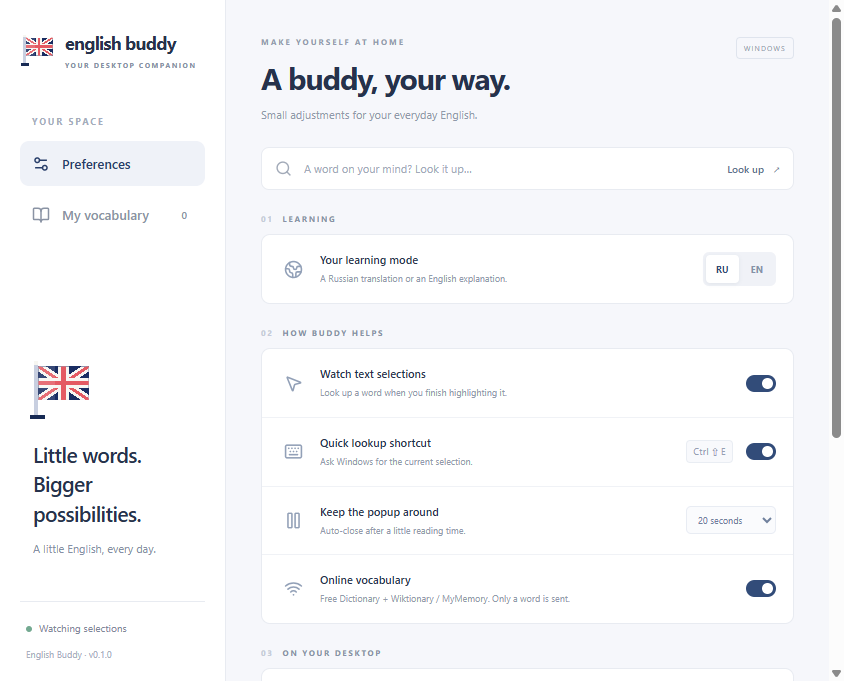
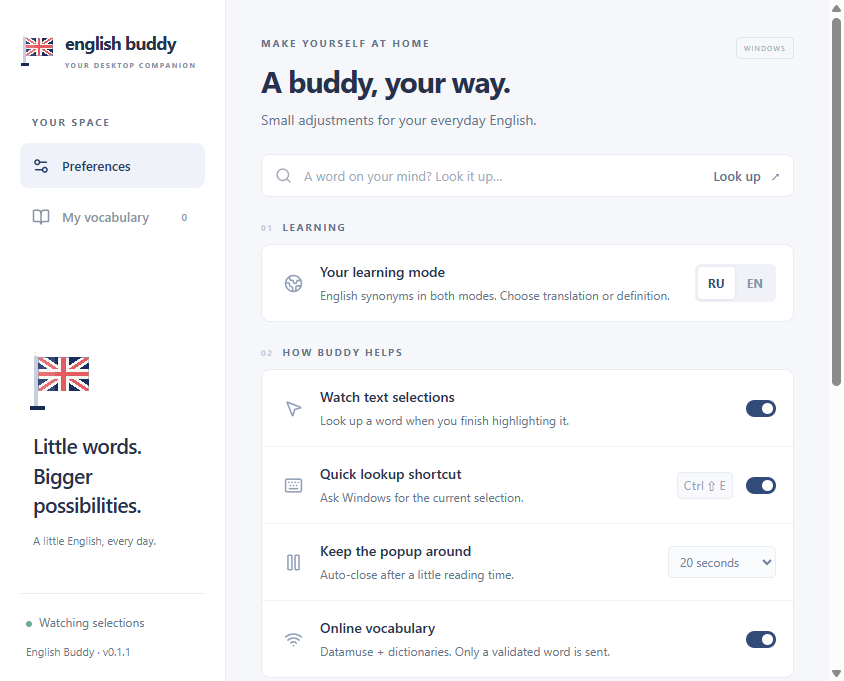
Show English synonyms first and improve readability in v0.1.1

diff --git a/tests/core.test.ts b/tests/core.test.ts
@@ -6,7 +6,7 @@ import { settingsPatchSchema, settingsSchema, vocabularySchema } from '../src/sh
 import { clampRect, popupBounds } from '../src/shared/geometry';
 import { LocalStore } from '../src/storage/store';
 import { VocabularyCache } from '../src/services/cache';
-import { parseDictionary, parseTranslation, parseWiktionary, requestJson, type DictionaryData } from '../src/services/providers';
+import { DatamuseSynonyms, englishSynonyms, parseDictionary, parseTranslation, parseWiktionary, parseSynonyms, requestJson, type DictionaryData } from '../src/services/providers';
 import { VocabularyService } from '../src/services/vocabulary';
 
 const folders: string[] = [];
@@ -51,6 +51,59 @@ describe('Provider parsing and request failures', () => {
   it('retries a transient failure only once', async () => {
     const fetcher = vi.fn().mockResolvedValueOnce(new Response('{}', { status: 503 })).mockResolvedValueOnce(new Response('{"ok":true}'));
     expect(await requestJson('https://example.test', fetcher)).toEqual({ ok: true }); expect(fetcher).toHaveBeenCalledTimes(2);
+  });
+});
+describe('English synonyms', () => {
+  it('normalizes English terms, keeps phrases and rejects other languages and the original word', () => {
+    expect(englishSynonyms([' Happy ', ' Bright ', 'bright', 'счастливый', 'at   peace', '<script>', 'a@b.com'], 'happy')).toEqual(['bright', 'at peace']);
+  });
+  it('prioritizes common synonyms using provider frequency metadata', () => {
+    const data = parseSynonyms([{ word: 'halcyon', tags: ['f:0.1'] }, { word: 'content', tags: ['f:80'] }, { word: 'bright', tags: ['f:25'] }, { word: 'happy', tags: ['f:100'] }, { word: 'счастливый', tags: ['f:90'] }], 'happy');
+    expect(data.synonyms).toEqual(['content', 'bright', 'halcyon']);
+    expect(data.sources[0].url).toBe('https://www.datamuse.com/api/');
+  });
+  it('rejects malformed responses and accepts a legitimate empty result', () => {
+    expect(() => parseSynonyms({ word: 'bright' }, 'happy')).toThrow();
+    expect(() => parseSynonyms([{ word: 3 }], 'happy')).toThrow();
+    expect(parseSynonyms([], 'happy').synonyms).toEqual([]);
+  });
+  it('never sends unvalidated selected text to the synonym service', async () => {
+    const fetcher = vi.fn();
+    await expect(new DatamuseSynonyms(fetcher).lookup('private selected phrase')).rejects.toThrow('one English word');
+    expect(fetcher).not.toHaveBeenCalled();
+  });
+  it('requests actual synonym relations and frequency metadata with a normalized word', async () => {
+    const fetcher = vi.fn().mockResolvedValue(new Response(JSON.stringify([{ word: 'uniform', tags: ['f:20'] }])));
+    expect((await new DatamuseSynonyms(fetcher).lookup(' Consistent ')).synonyms).toEqual(['uniform']);
+    expect(fetcher.mock.calls[0][0]).toContain('rel_syn=consistent&max=24&md=f');
+  });
+  it('enriches legacy cached data once without reloading translation or definition', async () => {
+    const cache = new VocabularyCache(); cache.set({ ...entry(), synonyms: [] });
+    const lookup = vi.fn(), translate = vi.fn(), synonyms = vi.fn().mockResolvedValue({ synonyms: ['uniform', 'coherent'], sources: [] });
+    const service = new VocabularyService({ lookup }, { translate }, cache, { lookup: synonyms });
+    const updated = await service.lookup('consistent');
+    expect(updated.synonyms).toEqual(['uniform', 'coherent']); expect(updated.translation).toBe('последовательный'); expect(updated.synonymsChecked).toBe(true);
+    await service.lookup('consistent'); expect(synonyms).toHaveBeenCalledTimes(1); expect(lookup).not.toHaveBeenCalled(); expect(translate).not.toHaveBeenCalled();
+  });
+  it('preserves old cached words offline without making a synonym request', async () => {
+    const cache = new VocabularyCache(); cache.set(entry()); const synonyms = vi.fn();
+    const service = new VocabularyService({ lookup: vi.fn() }, { translate: vi.fn() }, cache, { lookup: synonyms });
+    await expect(service.lookup('consistent', false)).resolves.toMatchObject({ synonyms: ['steady'] }); expect(synonyms).not.toHaveBeenCalled();
+  });
+  it('keeps dictionary synonyms when the additional service fails', async () => {
+    const service = new VocabularyService({ lookup: vi.fn().mockResolvedValue(dictionary) }, { translate: vi.fn().mockResolvedValue(translated) }, new VocabularyCache(), { lookup: vi.fn().mockRejectedValue(new Error('offline')) });
+    const result = await service.lookup('consistent'); expect(result.synonyms).toEqual(['steady']); expect(result.warnings).toEqual([]);
+  });
+  it('returns real synonyms even if the other vocabulary services are unavailable', async () => {
+    const service = new VocabularyService({ lookup: vi.fn().mockRejectedValue(new Error()) }, { translate: vi.fn().mockRejectedValue(new Error()) }, new VocabularyCache(), { lookup: vi.fn().mockResolvedValue({ synonyms: ['uniform'], sources: [] }) });
+    const result = await service.lookup('consistent'); expect(result.synonyms).toEqual(['uniform']); expect(result.definition).toBe(''); expect(result.translation).toBe(''); expect(result.warnings).toHaveLength(2);
+  });
+  it('reports synonym failure without poisoning the cache and retries on the next lookup', async () => {
+    const synonyms = vi.fn().mockRejectedValueOnce(new Error()).mockResolvedValue({ synonyms: ['uniform'], sources: [] });
+    const cache = new VocabularyCache();
+    const service = new VocabularyService({ lookup: vi.fn().mockResolvedValue({ ...dictionary, synonyms: [] }) }, { translate: vi.fn().mockResolvedValue(translated) }, cache, { lookup: synonyms });
+    const first = await service.lookup('consistent'); expect(first.warnings.join(' ')).toContain('English synonyms'); expect(cache.get('consistent')).toBeUndefined();
+    expect((await service.lookup('consistent')).synonyms).toEqual(['uniform']);
   });
 });
 describe('Cache', () => {

diff --git a/src/services/vocabulary.ts b/src/services/vocabulary.ts
@@ -1,17 +1,17 @@
 import type { Vocabulary } from '../shared/schema';
 import { requireWord } from '../shared/validation';
 import { VocabularyCache } from './cache';
-import type { DictionaryProvider, TranslationProvider } from './providers';
+import { englishSynonyms, type DictionaryProvider, type TranslationProvider, type SynonymProvider } from './providers';
 
 export class VocabularyService {
   private pending = new Map<string, Promise<Vocabulary>>();
   private requestTimes: number[] = [];
   private generation = 0;
-  constructor(private dictionary: DictionaryProvider, private translation: TranslationProvider, private cache: VocabularyCache) {}
+  constructor(private dictionary: DictionaryProvider, private translation: TranslationProvider, private cache: VocabularyCache, private synonymProvider?: SynonymProvider) {}
   lookup(input: unknown, online = true): Promise<Vocabulary> {
     const word = requireWord(input);
     const cached = this.cache.get(word);
-    if (cached) return Promise.resolve(cached);
+    if (cached && (cached.synonymsChecked || !online)) return Promise.resolve(cached);
     if (!online) return Promise.reject(new Error('Offline: this word is not cached. Enable online lookups in Settings.'));
     const running = this.pending.get(word);
     if (running) return running;
@@ -19,7 +19,7 @@ export class VocabularyService {
     if (this.requestTimes.length >= 20 || this.pending.size >= 3) return Promise.reject(new Error('Too many lookups. Please wait a moment.'));
     this.requestTimes.push(Date.now());
     const generation = this.generation;
-    const promise = this.fetch(word).then(entry => {
+    const promise = this.fetch(word, cached).then(entry => {
       // Partial results remain usable but are retried on the next lookup.
       if (!entry.warnings.length && generation === this.generation) this.cache.set(entry);
       return entry;
@@ -27,16 +27,24 @@ export class VocabularyService {
     this.pending.set(word, promise);
     return promise;
   }
-  private async fetch(word: string): Promise<Vocabulary> {
-    const [dictionary, translation] = await Promise.allSettled([this.dictionary.lookup(word), this.translation.translate(word)]);
-    if (dictionary.status === 'rejected' && translation.status === 'rejected') throw new Error('Could not reach the vocabulary services, or the word was not found. Check your connection and try again.');
+  private async fetch(word: string, cached?: Vocabulary): Promise<Vocabulary> {
+    const dictionaryRequest = cached ? Promise.resolve({ definition: cached.definition, partOfSpeech: cached.partOfSpeech, synonyms: cached.synonyms, ipa: cached.ipa, example: cached.example, sources: cached.sources }) : this.dictionary.lookup(word);
+    const translationRequest = cached ? Promise.resolve({ text: cached.translation, synonyms: [], sources: [] }) : this.translation.translate(word);
+    const [dictionary, translation, synonymResult] = await Promise.allSettled([dictionaryRequest, translationRequest, this.synonymProvider?.lookup(word) ?? Promise.resolve({ synonyms: [], sources: [] })]);
+    const synonyms = englishSynonyms([
+      ...(synonymResult.status === 'fulfilled' ? synonymResult.value.synonyms : []),
+      ...(dictionary.status === 'fulfilled' ? dictionary.value.synonyms : []),
+      ...(translation.status === 'fulfilled' ? translation.value.synonyms ?? [] : [])
+    ], word);
+    if (dictionary.status === 'rejected' && translation.status === 'rejected' && !synonyms.length) throw new Error('Could not reach the vocabulary services, or the word was not found. Check your connection and try again.');
+    const sources = [...(dictionary.status === 'fulfilled' ? dictionary.value.sources : []), ...(translation.status === 'fulfilled' ? translation.value.sources : []), ...(synonymResult.status === 'fulfilled' ? synonymResult.value.sources : [])];
     return {
       word, definition: '', translation: translation.status === 'fulfilled' ? translation.value.text : '',
       partOfSpeech: '', ipa: '', example: '',
       ...(dictionary.status === 'fulfilled' ? dictionary.value : {}),
-      synonyms: dictionary.status === 'fulfilled' && dictionary.value.synonyms.length ? dictionary.value.synonyms : translation.status === 'fulfilled' ? translation.value.synonyms ?? [] : [],
-      sources: [...(dictionary.status === 'fulfilled' ? dictionary.value.sources : []), ...(translation.status === 'fulfilled' ? translation.value.sources : [])],
-      warnings: [...(dictionary.status === 'rejected' ? ['English dictionary data is temporarily unavailable.'] : []), ...(translation.status === 'rejected' ? ['Russian translation is temporarily unavailable.'] : [])],
+      synonyms, synonymsChecked: synonymResult.status === 'fulfilled' || synonyms.length > 0,
+      sources: sources.filter((source, index) => sources.findIndex(item => item.name === source.name && item.url === source.url) === index),
+      warnings: [...(dictionary.status === 'rejected' ? ['English dictionary data is temporarily unavailable.'] : []), ...(translation.status === 'rejected' ? ['Russian translation is temporarily unavailable.'] : []), ...(synonymResult.status === 'rejected' && !synonyms.length ? ['English synonyms are temporarily unavailable. Please try again.'] : [])],
       fetchedAt: Date.now()
     };
   }

diff --git a/src/renderer/pages/Settings.tsx b/src/renderer/pages/Settings.tsx
@@ -3,6 +3,7 @@ import { useEffect, useState, type ReactNode } from 'react';
 import type { AppState, SettingsPatch } from '../../shared/schema';
 import { FlagArt } from '../components/Flag';
 import { ModeToggle } from '../components/ModeToggle';
+import { version as appVersion } from '../../../package.json';
 
 function Switch({ checked, onChange, label }: { checked: boolean; onChange: (value: boolean) => void; label: string }) {
   return <button className={`switch ${checked ? 'on' : ''}`} role="switch" aria-checked={checked} aria-label={label} onClick={() => onChange(!checked)}><span /></button>;
@@ -28,7 +29,7 @@ export function SettingsPage({ state, initialPage }: { state: AppState; initialP
       <div className="side-label">YOUR SPACE</div>
       <nav><button className={page === 'settings' ? 'active' : ''} onClick={() => setPage('settings')}><Settings2 size={18} />Preferences</button><button className={page === 'words' ? 'active' : ''} onClick={() => setPage('words')}><BookOpen size={18} />My vocabulary<span className="count">{state.words.length}</span></button></nav>
       <div className="side-companion"><FlagArt /><p>Little words.<br />Bigger possibilities.</p><small>A little English, every day.</small></div>
-      <div className="side-bottom"><span className={`status-dot ${watching ? '' : 'off'}`} />{watching ? 'Watching selections' : 'Selection watching paused'}<small>English Buddy · v0.1.0</small></div>
+      <div className="side-bottom"><span className={`status-dot ${watching ? '' : 'off'}`} />{watching ? 'Watching selections' : 'Selection watching paused'}<small>English Buddy · v{appVersion}</small></div>
     </aside>
     <main className="settings-main">
       <header className="page-header"><div><div className="eyebrow">MAKE YOURSELF AT HOME</div><h1>{page === 'words' ? 'My vocabulary' : 'A buddy, your way.'}</h1><p>{page === 'words' ? 'The words you meet. The words you keep.' : 'Small adjustments for your everyday English.'}</p></div><span className="desktop-badge">WINDOWS</span></header>
@@ -37,13 +38,13 @@ export function SettingsPage({ state, initialPage }: { state: AppState; initialP
       {error && <p className="feedback error" role="alert">{error}</p>}{notice && <p className="feedback" role="status"><Check size={15} />{notice}</p>}{state.storageWarning && <p className="feedback error">{state.storageWarning}</p>}
       {page === 'settings' ? <>
         <div className="section-title"><span>01</span>LEARNING</div>
-        <section className="settings-card"><div className="learning-row"><div className="setting-icon"><Globe2 size={19} /></div><div className="setting-text"><h3>Your learning mode</h3><p>A Russian translation or an English explanation.</p></div><ModeToggle mode={settings.mode} onChange={mode => update({ mode })} /></div></section>
+        <section className="settings-card"><div className="learning-row"><div className="setting-icon"><Globe2 size={19} /></div><div className="setting-text"><h3>Your learning mode</h3><p>English synonyms in both modes. Choose translation or definition.</p></div><ModeToggle mode={settings.mode} onChange={mode => update({ mode })} /></div></section>
         <div className="section-title"><span>02</span>HOW BUDDY HELPS</div>
         <section className="settings-card">
           <SettingRow icon={<MousePointer2 size={19} />} title="Watch text selections" detail="Look up a word when you finish highlighting it."><Switch label="Watch text selections" checked={settings.monitoring} onChange={monitoring => update({ monitoring })} /></SettingRow>
           <SettingRow icon={<Keyboard size={19} />} title="Quick lookup shortcut" detail="Ask Windows for the current selection."><div className="row-controls"><kbd>Ctrl ⇧ E</kbd><Switch label="Quick lookup shortcut" checked={settings.shortcut} onChange={shortcut => update({ shortcut })} /></div></SettingRow>
           <SettingRow icon={<Pause size={19} />} title="Keep the popup around" detail="Auto-close after a little reading time."><select aria-label="Popup timeout" value={settings.popupTimeout} onChange={e => update({ popupTimeout: Number(e.target.value) })}>{[0, 10, 20, 30, 60, 120].map(seconds => <option key={seconds} value={seconds}>{seconds ? `${seconds} seconds` : 'Until I close it'}</option>)}</select></SettingRow>
-          <SettingRow icon={<Wifi size={19} />} title="Online vocabulary" detail="Free Dictionary + Wiktionary / MyMemory. Only a word is sent."><Switch label="Online vocabulary" checked={settings.online} onChange={online => update({ online })} /></SettingRow>
+          <SettingRow icon={<Wifi size={19} />} title="Online vocabulary" detail="Datamuse + dictionaries. Only a validated word is sent."><Switch label="Online vocabulary" checked={settings.online} onChange={online => update({ online })} /></SettingRow>
         </section>
         <div className="section-title"><span>03</span>ON YOUR DESKTOP</div>
         <section className="settings-card">

diff --git a/src/services/providers.ts b/src/services/providers.ts
@@ -12,6 +12,31 @@ export type DictionaryData = Pick<Vocabulary, 'definition' | 'partOfSpeech' | 's
 export interface TranslationData { text: string; sources: Vocabulary['sources']; synonyms?: string[] }
 export interface DictionaryProvider { lookup(word: string): Promise<DictionaryData> }
 export interface TranslationProvider { translate(word: string): Promise<TranslationData> }
+export interface SynonymData { synonyms: string[]; sources: Vocabulary['sources'] }
+export interface SynonymProvider { lookup(word: string): Promise<SynonymData> }
+
+export function englishSynonyms(words: string[], selected = ''): string[] {
+  const normalized = words.map(word => word.trim().replace(/[‘’]/g, "'").replace(/\s+/g, ' ').toLowerCase());
+  return [...new Set(normalized)].filter(word => word !== selected && word.length <= 80 && /^[a-z]+(?:[ '-][a-z]+)*$/.test(word)).slice(0, 8);
+}
+
+export function parseSynonyms(input: unknown, selected: string): SynonymData {
+  const entries = z.array(z.object({ word: z.string().max(80), tags: z.array(z.string().max(100)).max(30).optional() })).max(1000).parse(input);
+  const frequency = (tags: string[] = []) => {
+    const value = Number(tags.find(tag => tag.startsWith('f:'))?.slice(2) ?? 0);
+    return Number.isFinite(value) && value >= 0 ? value : 0;
+  };
+  const ordered = [...entries].sort((a, b) => frequency(b.tags) - frequency(a.tags));
+  return { synonyms: englishSynonyms(ordered.map(entry => entry.word), selected), sources: [{ name: 'Datamuse / WordNet synonyms', url: 'https://www.datamuse.com/api/' }] };
+}
+
+export class DatamuseSynonyms implements SynonymProvider {
+  constructor(private fetcher: typeof fetch = fetch) {}
+  async lookup(word: string): Promise<SynonymData> {
+    const selected = requireWord(word);
+    return parseSynonyms(await requestJson(`https://api.datamuse.com/words?rel_syn=${encodeURIComponent(selected)}&max=24&md=f`, this.fetcher), selected);
+  }
+}
 
 export function parseDictionary(input: unknown): DictionaryData {
   const entries = dictionarySchema.parse(input);
@@ -23,7 +48,7 @@ export function parseDictionary(input: unknown): DictionaryData {
   const definition = meaning.definitions[0];
   return {
     definition: definition.definition, partOfSpeech: meaning.partOfSpeech.slice(0, 60),
-    synonyms: [...new Set([...(meaning.synonyms ?? []), ...meaning.definitions.flatMap(d => d.synonyms ?? [])])].filter(s => s.length <= 80).slice(0, 8),
+    synonyms: englishSynonyms([...(meaning.synonyms ?? []), ...meaning.definitions.flatMap(d => d.synonyms ?? [])], requireWord(entry.word)),
     ipa: (entry.phonetic ?? entry.phonetics?.find(p => p.text)?.text ?? '').slice(0, 150), example: definition.example ?? '',
     sources: [{ name: 'Free Dictionary / Wiktionary', url: 'https://dictionaryapi.dev/', license: entry.license?.name.slice(0, 120), licenseUrl: entry.license?.url },
       { name: 'Wiktionary entry', url: `https://en.wiktionary.org/wiki/${encodeURIComponent(requireWord(entry.word))}` }]

diff --git a/src/renderer/styles/readability.css b/src/renderer/styles/readability.css
@@ -1,0 +1,42 @@
+.word-popup .popup-eyebrow { font-size: 10px; letter-spacing: 1px; color: #65738b; }
+.word-popup .word-header h1 { font-size: 34px; }
+.word-popup .word-header p { font-size: 14px; color: #66758c; line-height: 1.5; }
+.word-popup .ipa { font-size: 14px; color: #5a6e8e; }
+.word-popup .meaning-label { font-size: 11px; color: #66758c; letter-spacing: 1px; }
+.word-popup .popup-synonyms .meaning-label { font-size: 12px; color: #314e7b; font-weight: 700; }
+.word-popup .popup-synonyms .synonyms span { font-size: 18px; line-height: 1.45; padding: 7px 11px; color: #253f68; }
+.word-popup .synonyms small { font-size: 14px; line-height: 1.6; color: #66758c; }
+.word-popup .meaning { font-size: 18px; line-height: 1.6; color: #34445f; }
+.word-popup .meaning.translation { font-size: 24px; }
+.word-popup .example { font-size: 14px; color: #66758c; }
+.word-popup .warning { font-size: 13px; }
+.word-popup .sources { gap: 11px; }
+.word-popup .sources button { font-size: 11px; line-height: 1.65; color: #64748b; }
+.word-popup .mode-toggle button { font-size: 13px; padding: 8px 10px; }
+.word-popup .icon-button { width: 32px; height: 32px; }
+.word-popup .save-button { padding: 9px 11px; }
+.word-popup .save-button svg, .word-popup .icon-button svg { width: 20px; height: 20px; }
+.word-popup .loading p { font-size: 16px; }
+.word-popup .loading p span { font-size: 13px; color: #66758c; }
+.word-popup .lookup-error { font-size: 16px; color: #66758c; }
+.word-popup .secondary { font-size: 14px; }
+.flag-status { font-size: 10px; }
+
+.app-shell .page-header p { font-size: 14px; color: #66758c; }
+.app-shell .eyebrow, .app-shell .side-label, .app-shell .section-title { font-size: 10px; color: #65738b; }
+.app-shell .setting-text h3 { font-size: 14px; }
+.app-shell .setting-text p { font-size: 12px; color: #66758c; }
+.app-shell .learning-row .mode-toggle button { font-size: 12px; }
+.app-shell .manual-lookup input, .app-shell .manual-lookup button { font-size: 13px; }
+.app-shell .setting-row select, .app-shell kbd { font-size: 12px; }
+.app-shell .utility-buttons button { font-size: 12px; }
+.app-shell .help-note strong { font-size: 13px; }
+.app-shell .help-note p, .app-shell .native-status { font-size: 12px; color: #66758c; }
+.app-shell .side-bottom { font-size: 12px; line-height: 1.5; color: #66758c; }
+.app-shell .side-bottom small, .app-shell .side-companion small { font-size: 11px; color: #66758c; }
+.app-shell .settings-footer { font-size: 10px; color: #66758c; }
+.app-shell .welcome-card p, .app-shell .primary { font-size: 13px; }
+.app-shell .saved-word > p { font-size: 14px; color: #66758c; }
+.app-shell .saved-word .saved-translation { font-size: 18px; color: #34445f; }
+.app-shell .saved-word .synonyms span { font-size: 13px; color: #536b91; }
+.app-shell .saved-date, .app-shell .saved-date button { font-size: 11px; }

diff --git a/src/renderer/components/Popup.tsx b/src/renderer/components/Popup.tsx
@@ -14,14 +14,16 @@ export function Popup({ state }: { state: AppState }) {
       {entry && <button className="pronounce" aria-label="Pronounce word" title="Pronounce with a Windows voice" onClick={() => perform(window.buddy.pronounce())}><Volume2 size={20} /></button>}
     </header>
     <div className="popup-content">
-      {popup.status === 'loading' && <div className="loading"><LoaderCircle className="spin" size={23} /><p>Looking up your word<span>Dictionary + Russian translation</span></p></div>}
+      {popup.status === 'loading' && <div className="loading"><LoaderCircle className="spin" size={23} /><p>Looking up your word<span>English synonyms + dictionary + translation</span></p></div>}
       {(popup.status === 'idle' || popup.status === 'error') && <div className="lookup-error"><p>{popup.message || 'Select one English word in another app. Your Buddy will take it from there.'}</p><button className="secondary" onClick={() => perform(window.buddy.copiedWord())}><Clipboard size={15} />Use copied word</button></div>}
       {entry && <>
+        <section className="popup-synonyms" aria-label="English synonyms">
+          <div className="meaning-label">ENGLISH SYNONYMS</div>
+          <div className="synonyms">{entry.synonyms.length ? entry.synonyms.map(word => <span key={word}>{word}</span>) : <small>{entry.synonymsChecked ? 'No English synonyms were found for this word.' : 'English synonyms are unavailable right now.'}</small>}</div>
+        </section>
         <div className="meaning-label">{settings.mode === 'ru' ? 'RUSSIAN TRANSLATION' : 'ENGLISH DEFINITION'}</div>
         <p className={`meaning ${settings.mode === 'ru' ? 'translation' : ''}`}>{(settings.mode === 'ru' ? entry.translation : entry.definition) || 'This provider could not return this meaning. Try the other mode or look up the word again.'}</p>
         {entry.example && settings.mode === 'en' && <p className="example">“{entry.example}”</p>}
-        <div className="meaning-label synonyms-label">SIMILAR WORDS</div>
-        <div className="synonyms">{entry.synonyms.length ? entry.synonyms.map(word => <span key={word}>{word}</span>) : <small>No synonyms supplied for this meaning.</small>}</div>
         {entry.warnings.map(warning => <p className="warning" key={warning}>{warning}</p>)}
         <div className="sources">{entry.sources.map(source => <span key={source.name}><button title={source.name} onClick={() => perform(window.buddy.openSource(source.url))}>{source.name}<ExternalLink size={10} /></button>{source.licenseUrl && <button onClick={() => perform(window.buddy.openSource(source.licenseUrl!))}>{source.license}</button>}</span>)}</div>
       </>}

diff --git a/src/main/index.ts b/src/main/index.ts
@@ -4,7 +4,7 @@ import { pathToFileURL } from 'node:url';
 import { z } from 'zod';
 import { LocalStore } from '../storage/store';
 import { VocabularyCache } from '../services/cache';
-import { FreeDictionary, WiktionaryTranslation } from '../services/providers';
+import { DatamuseSynonyms, FreeDictionary, WiktionaryTranslation } from '../services/providers';
 import { VocabularyService } from '../services/vocabulary';
 import { settingsPatchSchema, type AppState, type PopupState } from '../shared/schema';
 import { allowedSource, requireWord } from '../shared/validation';
@@ -145,7 +145,7 @@ async function start() {
   session.defaultSession.setPermissionRequestHandler((_contents, _permission, callback) => callback(false));
   session.defaultSession.setPermissionCheckHandler(() => false);
   store = new LocalStore(app.getPath('userData'));
-  service = new VocabularyService(new FreeDictionary(), new WiktionaryTranslation(), new VocabularyCache(join(app.getPath('userData'), 'cache.json')));
+  service = new VocabularyService(new FreeDictionary(), new WiktionaryTranslation(), new VocabularyCache(join(app.getPath('userData'), 'cache.json')), new DatamuseSynonyms());
   windows = new BuddyWindows((x, y) => store.position(x, y));
   helper = new NativeSelection(join(app.isPackaged ? process.resourcesPath : app.getAppPath(), app.isPackaged ? 'native/SelectionHelper.exe' : 'native-bin/SelectionHelper.exe'), (word, explicit) => { void lookup(word, explicit); }, value => { nativeStatus = value; broadcast(); }, missing);
   registerIpc();

diff --git a/src/main/windows/windows.ts b/src/main/windows/windows.ts
@@ -27,7 +27,7 @@ export class BuddyWindows {
     const position = settings.position ?? { x: area.x + area.width - 140, y: area.y + area.height - 160 };
     const display = screen.getDisplayNearestPoint(position);
     this.flag = this.create('flag', { ...clampRect({ ...position, width: 100, height: 108 }, display.workArea), frame: false, transparent: true, resizable: false, skipTaskbar: true, alwaysOnTop: true, focusable: false, hasShadow: false });
-    this.popup = this.create('popup', { width: 390, height: 420, frame: false, transparent: true, resizable: false, skipTaskbar: true, alwaysOnTop: true, focusable: false, hasShadow: false });
+    this.popup = this.create('popup', { width: 450, height: 520, frame: false, transparent: true, resizable: false, skipTaskbar: true, alwaysOnTop: true, focusable: false, hasShadow: false });
     this.flag.setAlwaysOnTop(true, 'pop-up-menu');
     this.popup.setAlwaysOnTop(true, 'pop-up-menu');
     this.flag.on('move', () => this.anchorPopup());

diff --git a/src/shared/geometry.ts b/src/shared/geometry.ts
@@ -4,7 +4,7 @@ export function clampRect(rect: Rect, area: Rect): Rect {
   return { width, height, x: Math.round(Math.max(area.x, Math.min(rect.x, area.x + area.width - width))), y: Math.round(Math.max(area.y, Math.min(rect.y, area.y + area.height - height))) };
 }
 export function popupBounds(flag: Rect, area: Rect): Rect {
-  const width = Math.min(390, area.width), height = Math.min(420, area.height);
+  const width = Math.min(450, area.width), height = Math.min(520, area.height);
   const above = flag.y - height - 8;
   const y = above >= area.y ? above : flag.y + flag.height + 8;
   return clampRect({ x: flag.x + flag.width / 2 - width / 2, y, width, height }, area);

diff --git a/src/shared/validation.ts b/src/shared/validation.ts
@@ -14,7 +14,7 @@ export function requireWord(input: unknown): string {
 export function allowedSource(input: unknown): string {
   if (typeof input !== 'string' || input.length > 1000) throw new Error('Invalid source.');
   const url = new URL(input);
-  const hosts = ['dictionaryapi.dev', 'en.wiktionary.org', 'mymemory.translated.net', 'creativecommons.org'];
+  const hosts = ['dictionaryapi.dev', 'en.wiktionary.org', 'mymemory.translated.net', 'creativecommons.org', 'www.datamuse.com'];
   if (url.protocol !== 'https:' || !hosts.includes(url.hostname) || url.username || url.password || url.port) throw new Error('Source is not allowed.');
   return url.href;
 }

diff --git a/src/shared/schema.ts b/src/shared/schema.ts
@@ -25,6 +25,7 @@ export const vocabularySchema = z.object({
   word: z.string().min(1).max(64), partOfSpeech: z.string().max(60).default(''),
   translation: z.string().max(2000).default(''), definition: z.string().max(3000).default(''),
   synonyms: z.array(z.string().max(80)).max(12).default([]),
+  synonymsChecked: z.boolean().default(false),
   ipa: z.string().max(150).default(''), example: z.string().max(1500).default(''),
   sources: z.array(sourceSchema).max(10).default([]), warnings: z.array(z.string().max(250)).max(5).default([]),
   fetchedAt: z.number().default(0)

diff --git a/src/renderer/styles/synonyms.css b/src/renderer/styles/synonyms.css
@@ -1,0 +1,23 @@
+.popup-synonyms {
+  border-bottom: 1px solid #e8ebf2;
+  padding-bottom: 17px;
+  margin-bottom: 18px;
+}
+.popup-synonyms .meaning-label {
+  color: #5c749a;
+  font-size: 8px;
+  margin-bottom: 11px;
+}
+.popup-synonyms .synonyms {
+  gap: 7px;
+}
+.popup-synonyms .synonyms span {
+  background: #edf2fa;
+  border-color: #dce5f3;
+  color: #314e7b;
+  font-size: 12px;
+  line-height: 1.5;
+  padding: 6px 10px;
+  max-width: 100%;
+  overflow-wrap: anywhere;
+}
